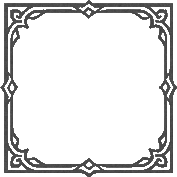
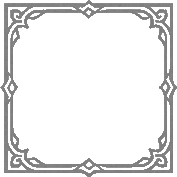
Changed dark mode equipment titles and borders to be brigher.

Changed region(s): [[0.0, 0.0, 1.0, 1.0]]

diff --git a/win/win32/xpl/GnollHackX/GnollHackX/Pages/Game/GamePage.xaml.cs b/win/win32/xpl/GnollHackX/GnollHackX/Pages/Game/GamePage.xaml.cs
@@ -16754,8 +16754,8 @@ namespace GnollHackX.Pages.Game
         private readonly SKColor _menuHighlightHoverOverAutoClickedColor = new SKColor(0xFF, 0xBB, 0x00, 0xAA);
         private readonly SKColor _menuHighlightWornColor = new SKColor(0xFF, 0xCC, 0x88, 0x20);
 
-        private readonly SKColor _inventorySlotBackgroundDarkColor = new SKColor(0x55, 0x55, 0x55, 0x33);
-        private readonly SKColor _menuHighlightSelectedDarkColor = new SKColor(0x77, 0x77, 0xAA, 0x44);
+        private readonly SKColor _inventorySlotBackgroundDarkColor = new SKColor(0x66, 0x66, 0x66, 0x44);
+        private readonly SKColor _menuHighlightSelectedDarkColor = new SKColor(0x88, 0x88, 0xAA, 0x55);
         private readonly SKColor _menuHighlightHoverOverSelectedDarkColor = new SKColor(0xBB, 0xBB, 0xEE, 0x77);
 
         private int _firstDrawnMenuItemIdx = -1;
@@ -16816,6 +16816,8 @@ namespace GnollHackX.Pages.Game
                 BitmapName = bitmapName;
             }
         }
+
+        SKColor _darkEquipmentSlotTitleColor = new SKColor(192, 192, 192);
         EquipmentSlot[] _equipmentSlots = new EquipmentSlot[] 
         {
             new EquipmentSlot("Right Hand", "Right", (int)InventorySlotPictureIndices.WeaponRight, 0, 0, obj_worn_flags.W_WEP, ".Assets.UI.wield.png"),
@@ -17042,7 +17044,7 @@ namespace GnollHackX.Pages.Game
                     x += leftmenupadding + innerleftpadding;
                     float start_x = x;
                     SKImage slotBitmap = isDarkMode ? GHApp.InventorySlotDarkBitmap : GHApp.InventorySlotLightBitmap;
-                    textPaint.Color = isDarkMode ? SKColors.Gray : SKColors.SaddleBrown;
+                    textPaint.Color = isDarkMode ? _darkEquipmentSlotTitleColor : SKColors.SaddleBrown;
                     float gridHeight = 0;
                     bool gridHeightFirst = true;
 
